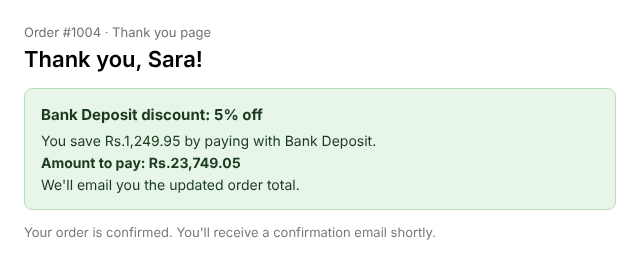
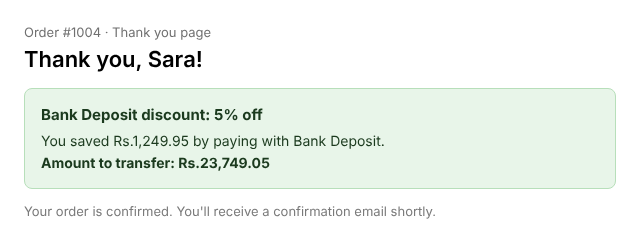
Thank-you block: amount to transfer for pop-up orders, placed by default
The block hid itself for orders that went through the pop-up, which is now
nearly every order. It now shows bank transfer customers the saving (the
discount Shopify applied, by name, or worked out) and the order total as the
amount to transfer; card and cash on delivery orders show nothing. Orders
that skipped the pop-up keep the old message. default_placement puts the
block at the top of the Thank-you page when a store installs the app.

Claude-Session: https://claude.ai/code/session_01T5N9wRvo6CZFC7JEBmskR2

diff --git a/extensions/thank-you-amount/src/ThankYou.jsx b/extensions/thank-you-amount/src/ThankYou.jsx
@@ -1,8 +1,10 @@
 import '@shopify/ui-extensions/preact';
 import {render} from 'preact';
 
-// Shows the customer the discount and the amount to transfer right after they
-// order. The app applies the discount to the order a few seconds later
+// Shows a bank transfer customer the discount and the amount to transfer
+// right after they order. Orders that went through the payment pop-up got the
+// discount at checkout, so the order total is the amount to transfer. Orders
+// that skipped it get the discount from the app a few seconds later
 // (app/discount.ts), so this works out the same numbers from the checkout.
 export default function extension() {
   render(<Extension />, document.body);
@@ -31,12 +33,43 @@ function Extension() {
   if (settings.pausedMonth && settings.pausedMonth === currentMonth(settings.timeZone) && !inEditor) {
     return null;
   }
-  // A payment method chosen in the pop-up before checkout means the discount
-  // was already taken off at checkout; showing it again would double it.
-  const choseBeforeCheckout = (shopify.attributes?.value ?? []).some(
+  const money = (amount) => shopify.i18n.formatCurrency(amount);
+  const method = settings.gateways?.[0] ?? 'Bank Deposit';
+  const total = Number(shopify.cost.totalAmount.value.amount);
+  // Like Shopify and the app's order edit, discount each line and round down
+  // to the cent, so the amounts match.
+  const worked = shopify.lines.value.reduce((sum, line) => {
+    const lineTotal = Number(line.cost.totalAmount.amount);
+    return sum + Math.floor(lineTotal * settings.percent + 1e-6) / 100;
+  }, 0);
+
+  // Chosen in the pop-up before checkout: the discount is already in the
+  // total. Only bank transfer needs the amount to transfer (cards are already
+  // charged, cash on delivery has no discount).
+  const choice = (shopify.attributes?.value ?? []).find(
     (attribute) => attribute.key === '_payment_choice',
-  );
-  if (choseBeforeCheckout && !inEditor) return null;
+  )?.value;
+  if (choice && !inEditor) {
+    if (choice !== 'bank') return null;
+    // The discount Shopify applied, by its name; worked out if not found.
+    const applied = (shopify.discountAllocations?.value ?? []).find(
+      (allocation) =>
+        allocation.type === 'automatic' &&
+        [settings.label, 'Payment method discount'].includes(allocation.title),
+    );
+    const saved = applied ? Number(applied.discountedAmount.amount) : worked;
+    if (!(saved > 0)) return null;
+    return (
+      <s-banner tone="success" heading={`${settings.label}: ${settings.percent}% off`}>
+        <s-stack gap="small-200">
+          <s-text>
+            You saved {money(saved)} by paying with {method}.
+          </s-text>
+          <s-text type="strong">Amount to transfer: {money(total)}</s-text>
+        </s-stack>
+      </s-banner>
+    );
+  }
 
   // Checkout only says what type of method was used, not its name. Bank
   // Deposit and other manual methods are 'manualPayment' ('other' is allowed
@@ -46,17 +79,9 @@ function Extension() {
   const paidManually = selected.some((option) => ['manualPayment', 'other'].includes(option.type));
   if (!paidManually && !inEditor) return null;
 
-  // Like the app's order edit, discount each line separately and round each
-  // line's discount down to the cent, as Shopify does, so the amounts match.
-  const discount = shopify.lines.value.reduce((sum, line) => {
-    const lineTotal = Number(line.cost.totalAmount.amount);
-    return sum + Math.floor(lineTotal * settings.percent + 1e-6) / 100;
-  }, 0);
+  // Skipped the pop-up: the app takes the discount off after ordering.
+  const discount = worked;
   if (!(discount > 0)) return null;
-
-  const total = Number(shopify.cost.totalAmount.value.amount);
-  const money = (amount) => shopify.i18n.formatCurrency(amount);
-  const method = settings.gateways?.[0] ?? 'Bank Deposit';
 
   return (
     <s-banner tone="success" heading={`${settings.label}: ${settings.percent}% off`}>
